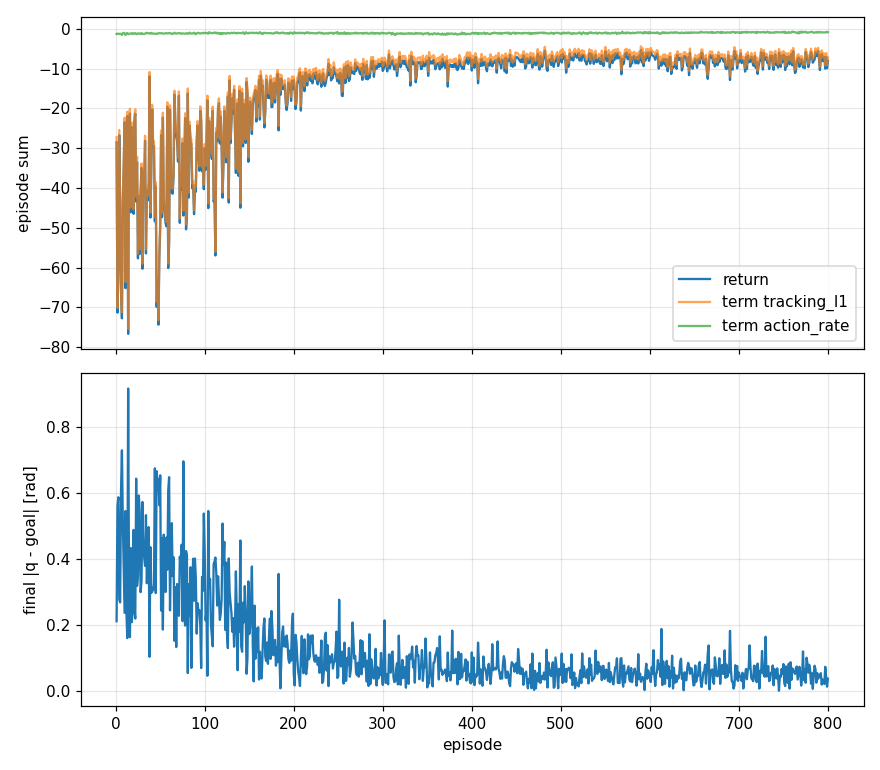
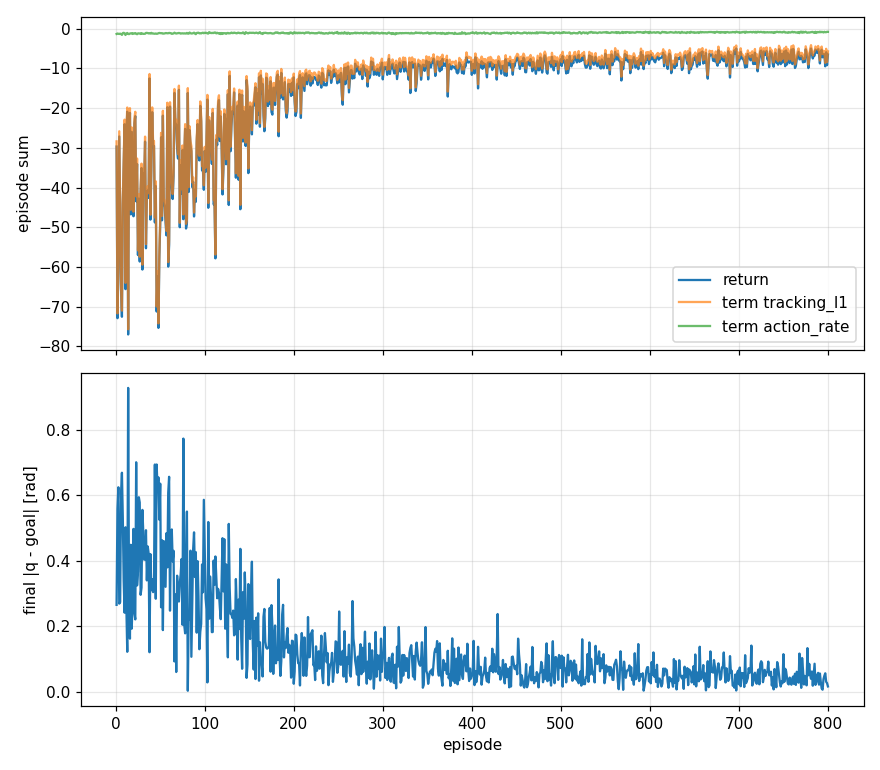
[change] 学習環境を step_and_observe 経由にし、往復遅延の原因 (Nagle) を特定して 5 倍速に
- ros2/unity_env.py: /step_and_observe (指令 → N ステップ → 関節状態を 1 往復) が
  あればそれを使い、無ければトピック + step_simulation に自動で戻る。
  サービス応答の待ちに 10 ms の spin タイムアウトが乗っていたのを 1 ms に
- ros2/step_latency_probe.py: steps 数を変えてサービス往復を計測し、固定分と
  1 ステップあたりの費用に分ける。これで固定 48 ms が判明した
- 本体側の対応 (別リポジトリ、ブランチ): simulation_extra_interfaces に
  StepAndObserve.srv、シミュレータに step_and_observe、ROS-TCP-Connector に
  TcpClient.NoDelay (往復 48 → 10 ms)
- scripts/servo_demo_bringup.sh: SIM_DIR / SIM_ARGS 環境変数 (ブランチで作った
  プレイヤーを使う)。scripts/train_resources.json は target_fps 500

計測 (2 物理ステップ/行動): 17.8 → 18.7 (サービス化のみ) → 54.9 (NoDelay, 200 FPS)
→ 90.5 steps/s (500 FPS)。3 回目の学習は 40k ステップ 507 s、整定誤差 0.016 rad、
トピック経路の sim2sim PASS (ideal 2〜15 mrad)。docs/architecture.md 8 章に記録。

diff --git a/python/src/unirobolab/ros2/unity_env.py b/python/src/unirobolab/ros2/unity_env.py
@@ -24,6 +24,11 @@ from sensor_msgs.msg import JointState
 from simulation_interfaces.msg import Result, SimulationState
 from simulation_interfaces.srv import ResetSimulation, SetSimulationState, StepSimulation
 
+try:  # simulator >= step-and-observe branch: one round trip per control step
+    from simulation_extra_interfaces.srv import StepAndObserve
+except ImportError:  # older simulation_extra_interfaces
+    StepAndObserve = None
+
 from unirobolab.contract import Contract
 from unirobolab.ros2.policy_node import process_action_term, process_obs_term
 
@@ -67,6 +72,19 @@ class UnityContractEnv(gym.Env):
         for cli in (self.cli_state, self.cli_step, self.cli_reset):
             if not cli.wait_for_service(timeout_sec=service_timeout_s):
                 raise RuntimeError(f"service {cli.srv_name} not available")
+        # step_and_observe: command + N steps + joint state in one service call. Falls back
+        # to joint_command topic + step_simulation + joint_states topic when the simulator
+        # (or the interface package) does not have it.
+        self.entity = task.get("entity", c.ros.namespace)
+        self.cli_sao = None
+        if StepAndObserve is not None and task.get("use_step_and_observe", True):
+            cli = self.node.create_client(StepAndObserve, "/step_and_observe")
+            if cli.wait_for_service(timeout_sec=float(task.get("step_and_observe_timeout_s", 3.0))):
+                self.cli_sao = cli
+            else:
+                self.node.get_logger().warn("/step_and_observe not available; using topics + step_simulation")
+        self.node.get_logger().info(
+            f"env transport: {'step_and_observe' if self.cli_sao else 'topics + step_simulation'}")
         self.js: JointState | None = None
         self.js_seq = 0
         self.js_index: list[int] | None = None
@@ -85,7 +103,8 @@ class UnityContractEnv(gym.Env):
         fut = cli.call_async(req)
         end = time.monotonic() + timeout_s
         while rclpy.ok() and not fut.done():
-            rclpy.spin_once(self.node, timeout_sec=0.01)
+            # short timeout: with 0.01 every service response could wait up to 10 ms here
+            rclpy.spin_once(self.node, timeout_sec=0.001)
             if time.monotonic() > end:
                 raise TimeoutError(f"{cli.srv_name} timed out")
         return fut.result()
@@ -109,14 +128,37 @@ class UnityContractEnv(gym.Env):
         if res.result.result != Result.RESULT_OK:
             raise RuntimeError(f"reset_simulation failed: {res.result.error_message}")
 
+    def _index_from(self, names: list[str]) -> list[int] | None:
+        if any(j not in names for j in self.joints):
+            return None
+        return [names.index(j) for j in self.joints]
+
     def _on_js(self, msg: JointState) -> None:
+        if self.cli_sao is not None:
+            return  # observations come from the service response in this mode
         if self.js_index is None:
-            names = list(msg.name)
-            missing = [j for j in self.joints if j not in names]
-            if missing:
+            self.js_index = self._index_from(list(msg.name))
+            if self.js_index is None:
                 return
-            self.js_index = [names.index(j) for j in self.joints]
         self.js = msg
+        self.js_seq += 1
+
+    def _step_and_observe(self, targets: np.ndarray | None, steps: int) -> None:
+        """One round trip: apply targets (None = no command), run steps, take the state."""
+        req = StepAndObserve.Request()
+        req.entity = self.entity
+        req.steps = int(steps)
+        if targets is not None:
+            req.command = self._command_msg(targets)
+        res = self._call(self.cli_sao, req)
+        if res.result != StepAndObserve.Response.RESULT_OK:
+            raise RuntimeError(f"step_and_observe failed ({res.result}): {res.error_message}")
+        idx = self._index_from(list(res.joint_states.name))
+        if idx is None:
+            raise RuntimeError(f"step_and_observe returned joints {list(res.joint_states.name)}, "
+                               f"contract needs {self.joints}")
+        self.js_index = idx
+        self.js = res.joint_states
         self.js_seq += 1
 
     def _wait_new_js(self, seq_before: int, timeout_s: float = 0.2) -> JointState:
@@ -190,14 +232,18 @@ class UnityContractEnv(gym.Env):
         self.frames = []
         self.t = 0
         self.episode_terms = {k: 0.0 for k in self.reward_weights}
-        self._publish_targets(np.zeros(len(self.act_joints), dtype=np.float32))
-        seq = self.js_seq
-        self._step_sim(self.steps_per_action)
-        self._wait_new_js(seq)
+        zeros = np.zeros(len(self.act_joints), dtype=np.float32)
+        if self.cli_sao is not None:
+            self._step_and_observe(zeros, self.steps_per_action)
+        else:
+            self._publish_targets(zeros)
+            seq = self.js_seq
+            self._step_sim(self.steps_per_action)
+            self._wait_new_js(seq)
         self.last_q = self._q()
         return self._obs(), {"goal": self.goal.copy()}
 
-    def _publish_targets(self, targets: np.ndarray) -> None:
+    def _command_msg(self, targets: np.ndarray) -> JointState:
         msg = JointState()
         msg.header.stamp = self.node.get_clock().now().to_msg()
         msg.name = list(self.act_joints)
@@ -209,7 +255,10 @@ class UnityContractEnv(gym.Env):
             msg.velocity = vals
         else:
             msg.effort = vals
-        self.pub.publish(msg)
+        return msg
+
+    def _publish_targets(self, targets: np.ndarray) -> None:
+        self.pub.publish(self._command_msg(targets))
 
     def step(self, action: np.ndarray):
         raw = np.asarray(action, dtype=np.float32).reshape(-1)
@@ -218,15 +267,18 @@ class UnityContractEnv(gym.Env):
         self.last_action = raw.copy()
         self.last_action[self.act_term.offset:self.act_term.end] = clipped
 
-        self._publish_targets(target)
-        if self.command_settle_s > 0:
-            # let the command reach Unity before the physics steps consume it
-            end = time.monotonic() + self.command_settle_s
-            while time.monotonic() < end:
-                rclpy.spin_once(self.node, timeout_sec=0.001)
-        seq = self.js_seq
-        self._step_sim(self.steps_per_action)
-        self._wait_new_js(seq)
+        if self.cli_sao is not None:
+            self._step_and_observe(target, self.steps_per_action)
+        else:
+            self._publish_targets(target)
+            if self.command_settle_s > 0:
+                # let the command reach Unity before the physics steps consume it
+                end = time.monotonic() + self.command_settle_s
+                while time.monotonic() < end:
+                    rclpy.spin_once(self.node, timeout_sec=0.001)
+            seq = self.js_seq
+            self._step_sim(self.steps_per_action)
+            self._wait_new_js(seq)
 
         q = self._q()
         qd = (q - self.last_q) / (self.steps_per_action * (self.c.sim_dt_s or 0.02))

diff --git a/python/src/unirobolab/ros2/step_latency_probe.py b/python/src/unirobolab/ros2/step_latency_probe.py
@@ -1,0 +1,62 @@
+"""Time /step_and_observe for several step counts: the slope is the per-step cost
+(one frame per physics step while stepping), the intercept is the round-trip overhead.
+
+    python3 -m unirobolab.ros2.step_latency_probe <entity> [repeats]
+"""
+
+from __future__ import annotations
+
+import sys
+import time
+
+import numpy as np
+import rclpy
+from simulation_extra_interfaces.srv import StepAndObserve
+from simulation_interfaces.msg import SimulationState
+from simulation_interfaces.srv import SetSimulationState
+
+
+def call(node, cli, req, timeout_s=30.0):
+    fut = cli.call_async(req)
+    end = time.monotonic() + timeout_s
+    while rclpy.ok() and not fut.done():
+        rclpy.spin_once(node, timeout_sec=0.001)
+        if time.monotonic() > end:
+            raise TimeoutError(cli.srv_name)
+    return fut.result()
+
+
+def main() -> int:
+    entity = sys.argv[1] if len(sys.argv) > 1 else "ServoDemo"
+    repeats = int(sys.argv[2]) if len(sys.argv) > 2 else 20
+    rclpy.init()
+    node = rclpy.create_node("step_latency_probe")
+    st = node.create_client(SetSimulationState, "/set_simulation_state")
+    sao = node.create_client(StepAndObserve, "/step_and_observe")
+    for c in (st, sao):
+        if not c.wait_for_service(timeout_sec=10.0):
+            print(f"{c.srv_name} not available"); return 1
+    req = SetSimulationState.Request(); req.state = SimulationState(state=SimulationState.STATE_PAUSED)
+    call(node, st, req)
+    rows = []
+    for steps in (0, 1, 2, 5, 10, 20, 50):
+        ts = []
+        for _ in range(repeats):
+            r = StepAndObserve.Request(); r.entity = entity; r.steps = steps
+            t0 = time.perf_counter()
+            res = call(node, sao, r)
+            ts.append((time.perf_counter() - t0) * 1e3)
+            if res.result != StepAndObserve.Response.RESULT_OK:
+                print("error:", res.error_message); return 1
+        ts = np.array(ts)
+        rows.append((steps, np.median(ts)))
+        print(f"steps={steps:3d}: median {np.median(ts):6.1f} ms  p10 {np.percentile(ts,10):6.1f}  p90 {np.percentile(ts,90):6.1f}")
+    x = np.array([r[0] for r in rows], float); y = np.array([r[1] for r in rows])
+    slope, icpt = np.polyfit(x, y, 1)
+    print(f"fit: {icpt:.1f} ms round trip + {slope:.2f} ms per physics step ({1e3/slope if slope>0 else float('inf'):.0f} steps/s while stepping)")
+    node.destroy_node(); rclpy.try_shutdown()
+    return 0
+
+
+if __name__ == "__main__":
+    sys.exit(main())

diff --git a/docs/architecture.md b/docs/architecture.md
@@ -239,9 +239,34 @@ python/.venv/bin/unirobolab gen contract/examples/servo_demo_rl.json --out gener
 # 以降は 7 章と同じ sim2sim(契約は servo_demo_rl、25 Hz)
 ```
 
-環境の実測スループットは約 18 steps/s(2 物理ステップ/行動)。内訳は step サービスの往復と
-フレーム待ちで、物理そのものではない。複数インスタンスのベクトル化はここがボトルネックになる
-ので、M2 の続きで Unity 側に「N ステップ + 観測をまとめて返す」サービスを足すのが本命。
+### 学習環境の輸送経路と往復時間(2026-09-16 追加)
+
+最初の実装(joint_command トピック + step_simulation + joint_states トピック)は 17.8 steps/s
+だった。本体に `step_and_observe` サービス(`simulation_extra_interfaces/srv/StepAndObserve`:
+指令 → N ステップ → 関節状態を 1 往復)を追加したが、それだけでは 18.7 steps/s で変わらなかった。
+`ros2/step_latency_probe.py` で steps 数を変えて呼ぶと、**往復の固定分が約 48 ms** で、
+ステップ数にほぼ依存しないことが分かった。
+
+原因は ROS-TCP-Connector の TCP ソケットで Nagle アルゴリズムが有効なこと。コネクタは
+1 メッセージをシステムコマンド(JSON)と本文の複数回の write で送るので、2 回目の write が
+1 回目の ACK 待ちになり、Linux の遅延 ACK(最大 40 ms)がそのまま乗る。
+`TcpClient.NoDelay = true` の 1 行で往復 48 ms → 10 ms(hijimasa/ROS-TCP-Connector の
+`tcp-nodelay` ブランチ、本体 manifest はそのハッシュを指す)。
+
+| 構成 | 往復固定分 | 1 物理ステップ | 環境スループット(2 ステップ/行動) |
+|---|---|---|---|
+| トピック経路、target_fps 200 | - | - | 17.8 steps/s |
+| step_and_observe、Nagle 有効、200 FPS | 48 ms | 1.2〜2 ms | 18.7 steps/s |
+| step_and_observe、NoDelay、200 FPS | 13 ms | 1.9 ms | 54.9 steps/s |
+| step_and_observe、NoDelay、500 FPS | 8 ms | 2.0 ms | **90.5 steps/s** |
+
+ステップ中は 1 フレームに 1 物理ステップしか進まない設計(step_simulation の決定論のため)なので、
+1 ステップの費用はフレーム時間で決まる。学習用の設定は `scripts/train_resources.json`
+(target_fps 500、time_scale 10)。残る 8 ms はコネクタ受信スレッドの 10 ms ポーリング
+(`ROSConnection.SleepTimeSeconds`)とエンドポイントの処理で、次の改善点。
+
+学習環境は `/step_and_observe` があればそれを使い、無ければトピック経路に自動で戻る
+(`task.use_step_and_observe`)。
 
 ### 結果(2026-09-16、servo_demo_rl、simulator v1.4.0)
 
@@ -255,6 +280,12 @@ python/.venv/bin/unirobolab gen contract/examples/servo_demo_rl.json --out gener
 | 最終 100 エピソードの最終誤差(学習中) | 0.18 rad | 0.054 rad |
 | 決定論評価の整定誤差 | 0.127 rad | 0.026 rad |
 | sim2sim(25 Hz、実時間、target_fps 60) | FAIL(tracking, obs_fresh) | **PASS** |
+
+3 回目(同じ設定、`step_and_observe` + NoDelay の本体ブランチで学習): 40k ステップが 507 s
+(78.9 steps/s、PPO の更新込み)、決定論評価の整定誤差 0.016 rad、sim2sim(トピック経路)PASS:
+ideal_joint 2〜15 mrad、cheap_joint 37〜43 mrad、観測鮮度 最悪 44 ms / 平均 21 ms
+(NoDelay はトピック経路の配備側にも効き、76 ms → 44 ms)。
+サービス経路で学習した方策がトピック経路の配備で通ることを確認できた。
 
 2 回目の sim2sim: ideal_joint 誤差 4〜9 mrad、cheap_joint 55〜57 mrad(バックラッシ幅 90 mrad の
 半分に張り付く分)、実測周期 25.0 Hz、観測鮮度 最悪 76 ms / 平均 40 ms。
@@ -276,7 +307,8 @@ python/.venv/bin/unirobolab gen contract/examples/servo_demo_rl.json --out gener
 ### M2 の残り
 
 - GUI(Unity 側): 契約とタスク定義の編集、学習の起動と学習曲線・報酬項の表示、sim2sim 結果の表示
-- スループット: step サービス往復がボトルネック(18 steps/s)。Unity 側に
-  「N ステップ進めて観測を返す」サービスを足すか、複数インスタンスを束ねる
+- スループット: 90 steps/s まで来た(`step_and_observe` + NoDelay + 500 FPS)。次は
+  コネクタ受信スレッドの 10 ms ポーリング(`ROSConnection.SleepTimeSeconds`)の短縮と、
+  複数インスタンスのベクトル化
 - `uv` 同梱の学習器の配布(今は派生 Docker イメージで代替)
 - sim2sim 失敗時の原因診断(今は各チェックの理由文まで)

diff --git a/README.md b/README.md
@@ -40,7 +40,9 @@ Inside the container (`scripts/sim2sim_container.sh shell`): see
 
 M1 done, M2 first slice done: a policy trained with PPO inside the simulator is exported
 to ONNX, packaged for ROS 2 and passes sim2sim on the servo demo (ideal joint error under
-1 centiradian). GUI and vectorised training are still to come. See [docs/architecture.md](docs/architecture.md) (Japanese) for
+1 centiradian). Training runs at about 90 env steps/s against a simulator built from its
+`step-and-observe` branch (one service round trip per control step, Nagle disabled in
+the TCP connector). GUI and vectorised training are still to come. See [docs/architecture.md](docs/architecture.md) (Japanese) for
 the design, milestones and results.
 
 ## Layout

diff --git a/README-ja.md b/README-ja.md
@@ -38,7 +38,8 @@ scripts/sim2sim_container.sh build          # 派生イメージ: onnxruntime, t
 
 M1 完了、M2 の第一段階完了: シミュレータ内で PPO 学習したポリシーを ONNX に書き出し、
 ROS 2 パッケージ化して servo_demo の sim2sim に合格(ideal_joint 誤差 1 センチラジアン未満)。
-GUI とベクトル化学習はこれから。
+学習は本体の `step-and-observe` ブランチで作ったシミュレータに対して約 90 steps/s
+(制御 1 周期 = サービス 1 往復、TCP コネクタの Nagle 無効化)。GUI とベクトル化学習はこれから。
 設計・マイルストーン・結果は [docs/architecture.md](docs/architecture.md) を参照。
 
 ## 構成
